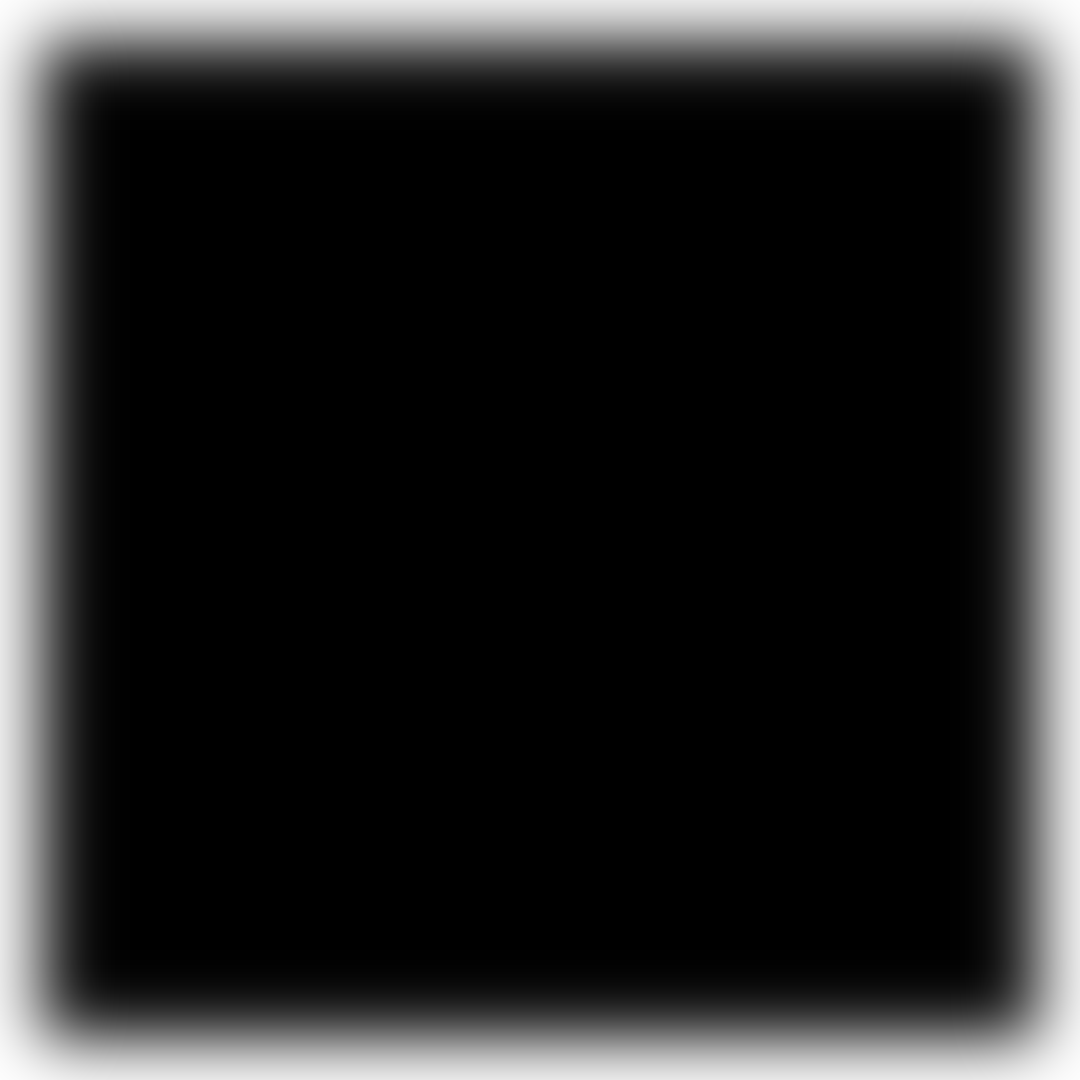
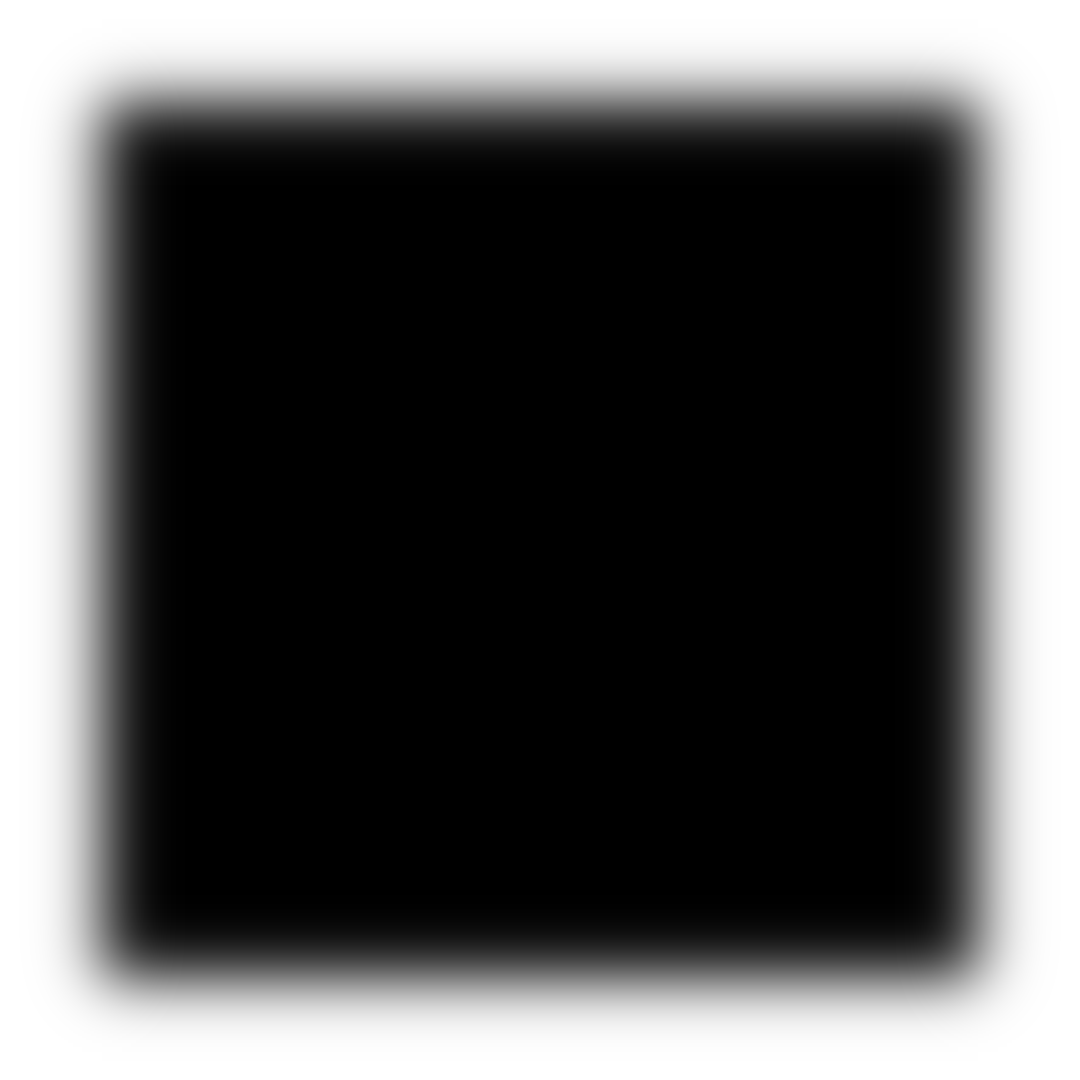
Lade till skugga

diff --git a/Spel/A-nivå/interface/scene/gamescene.py b/Spel/A-nivå/interface/scene/gamescene.py
@@ -52,6 +52,10 @@ class GameScene(Scene):
         self.board_corner.smooth = True
         self.board_edge = sf.Texture.from_file(assets.get_asset("/images/board_edge.png")) # Top edge
 
+        self.shadow_texture = sf.Texture.from_file(assets.get_asset("/images/shadow.png"))
+        self.shadow_texture.smooth = True
+        self.shadow = self._get_sprite(self.shadow_texture)
+
         font = sf.Font.from_file(assets.get_asset("/fonts/GeosansLight.ttf"))
         self.msg = sf.Text()
         self.msg.string = self.translation[self.game.get_turn()] + " ska spela"
@@ -115,6 +119,8 @@ class GameScene(Scene):
 
         self.target.draw(self.msg)
 
+        self.target.draw(self.shadow)
+
         for row in self.board_tiles:
             for tile in row:
                 self.target.draw(tile)
@@ -148,6 +154,9 @@ class GameScene(Scene):
         self.skip.set_character_size(size.y * self.SKIP_SCALE)
         skip_size = self.skip.get_bounds()
         self.skip.set_position((3*size.x/8 - skip_size[0]/2, skip_size[1]/2))
+
+        ratio = 8*size.y/(9*self.shadow_texture.size.y)
+        self.shadow.ratio = (ratio, ratio)
 
         if window_ratio >= table_ratio:
             r = size.x/table_size.x
